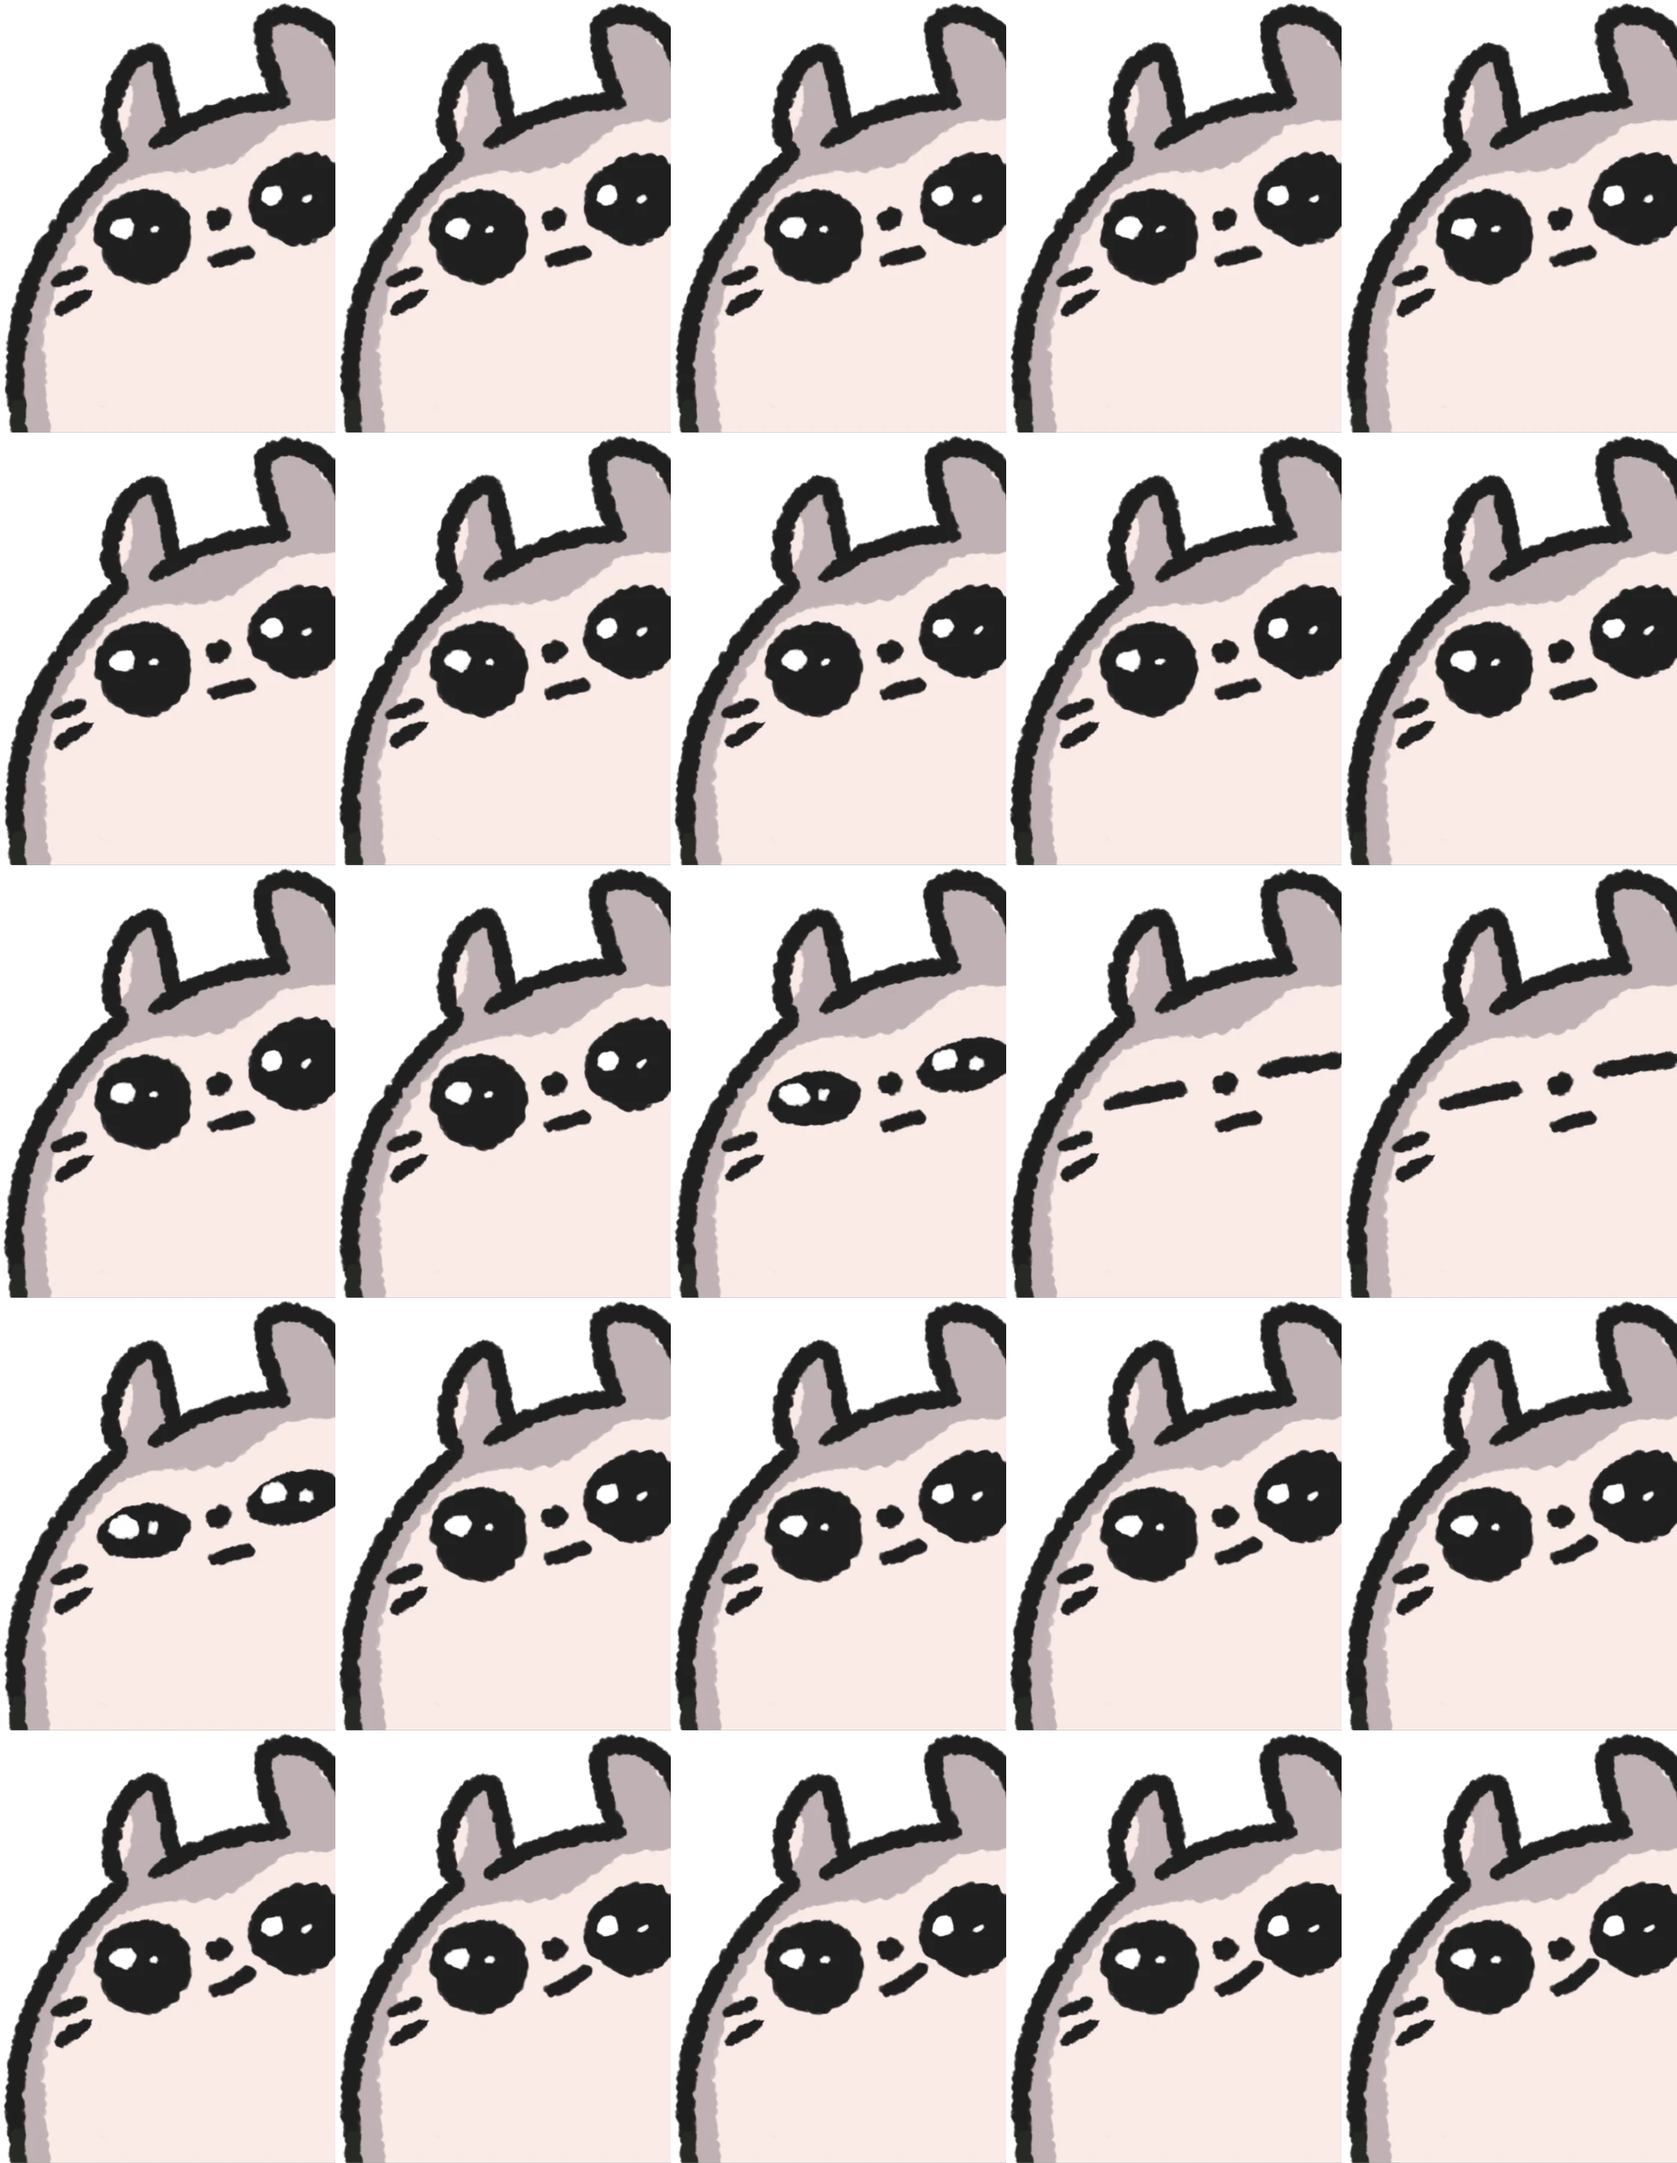
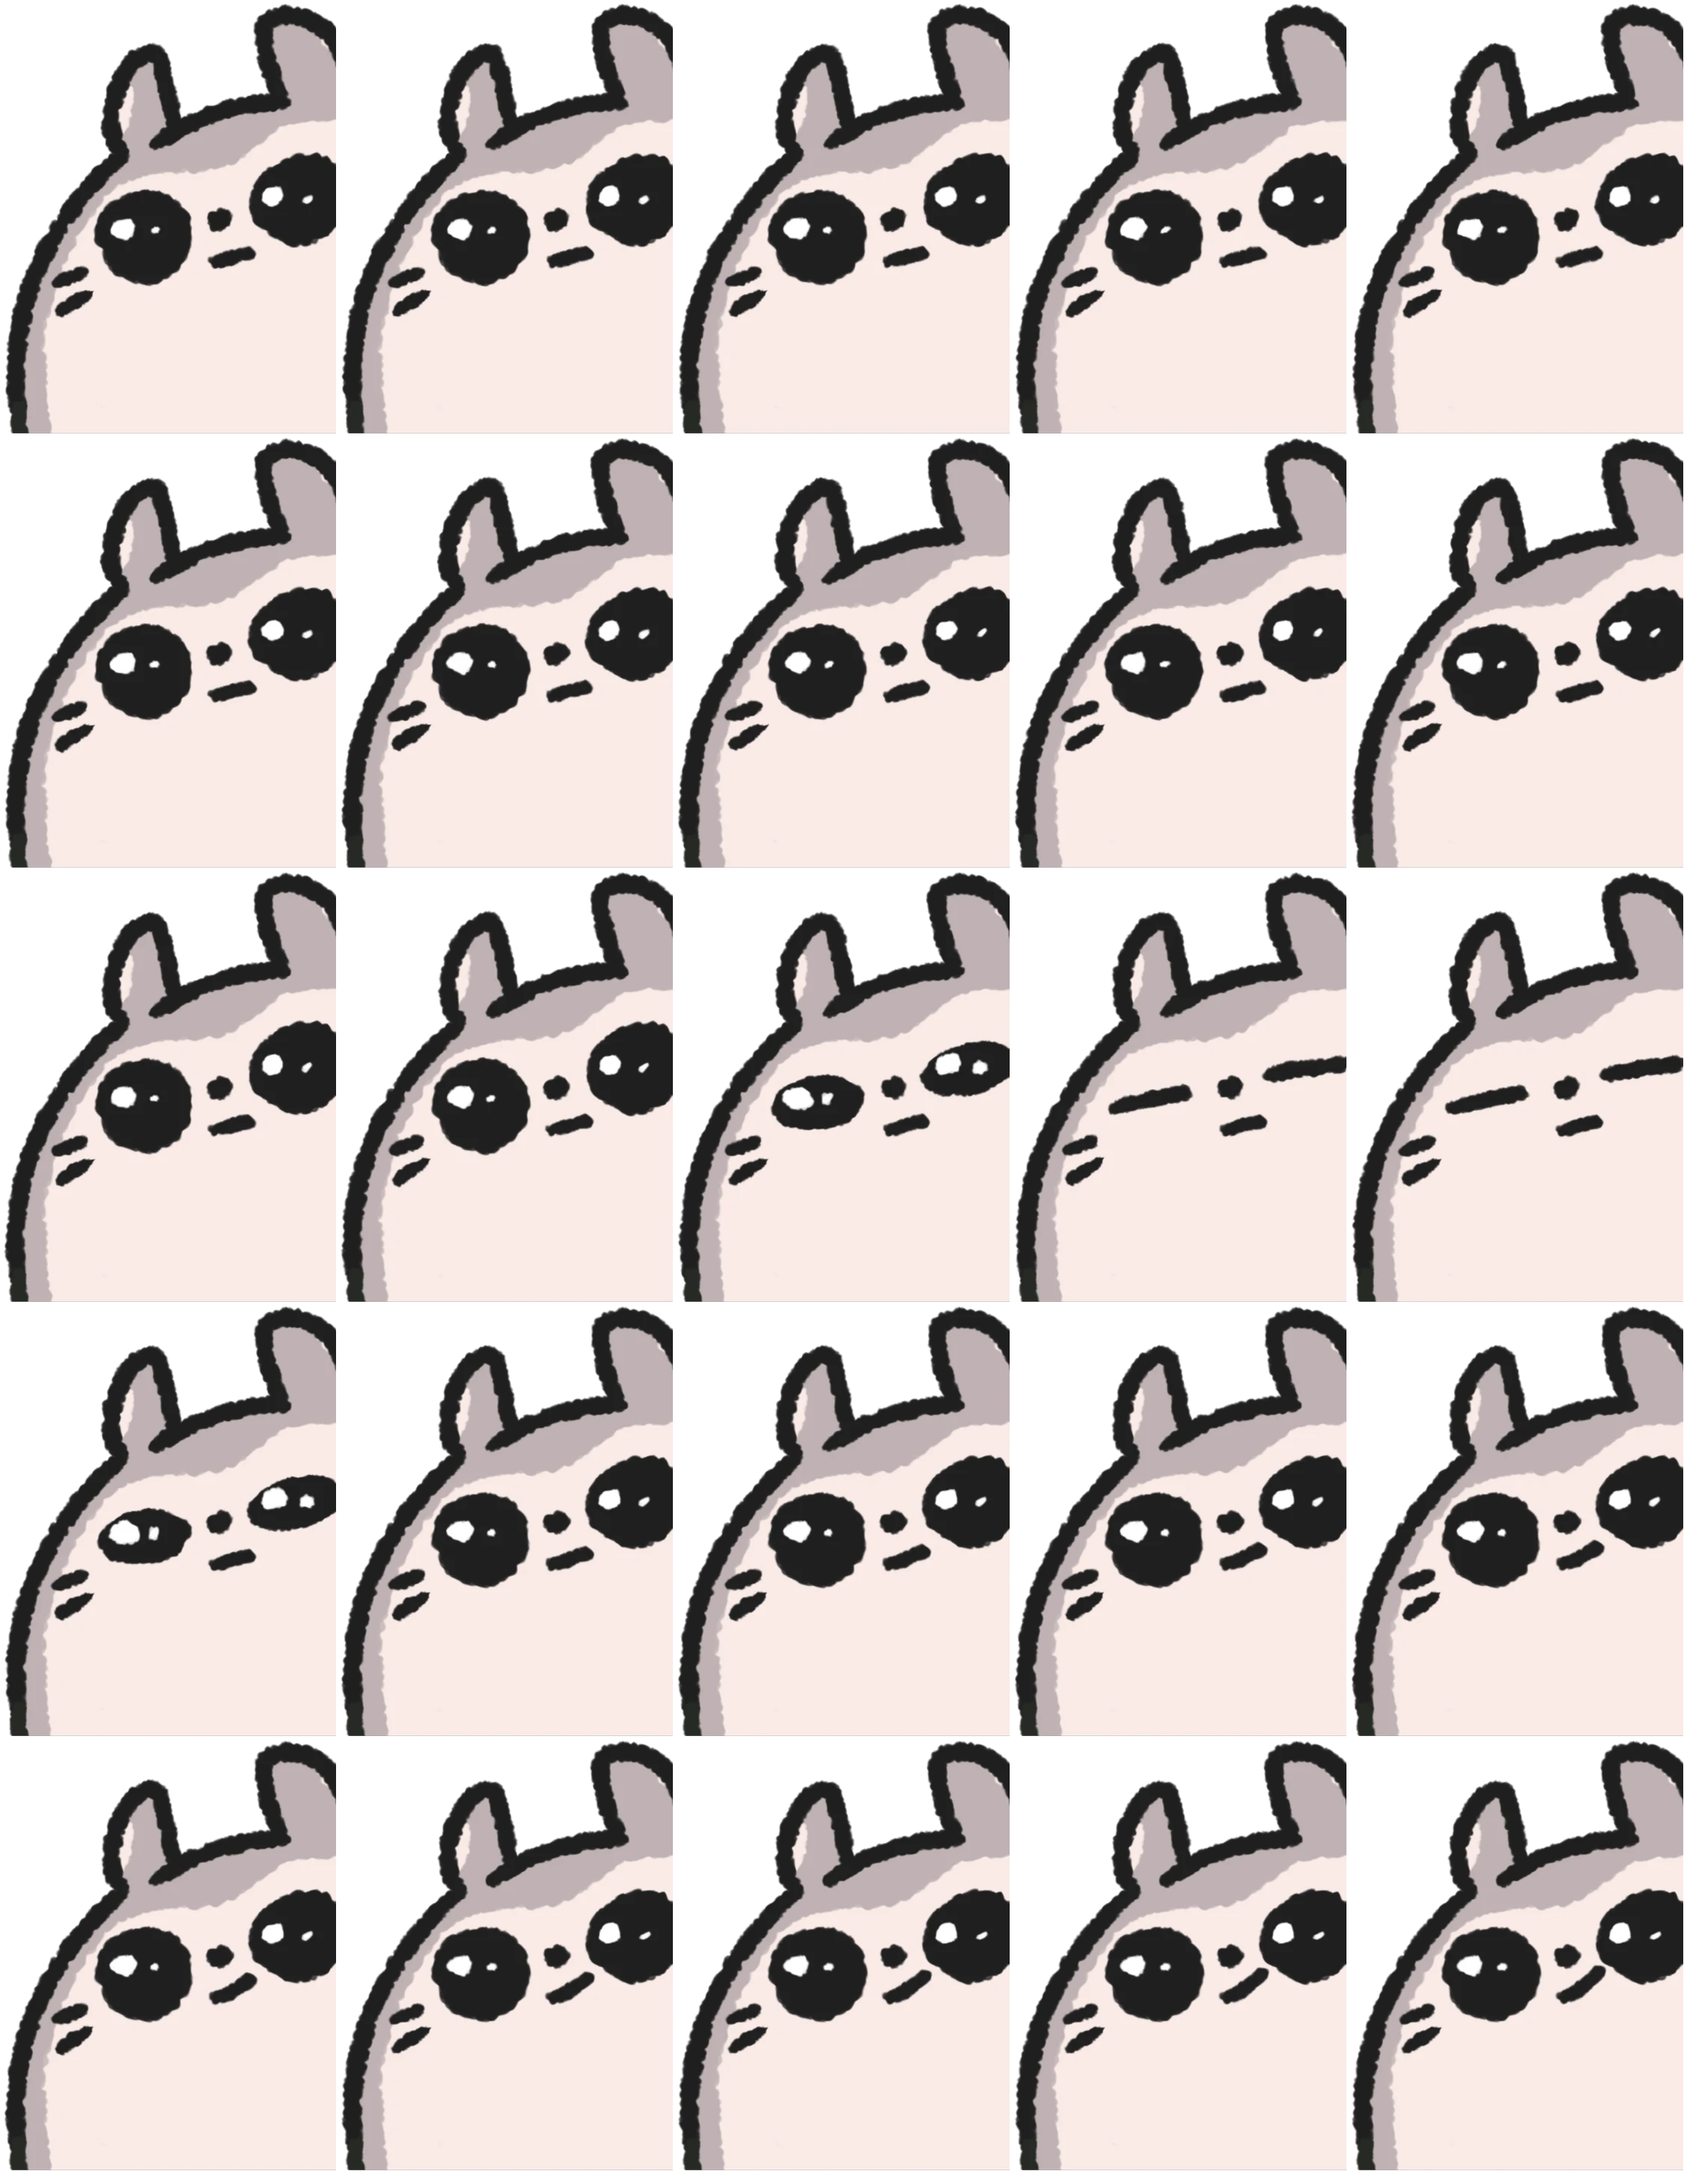
ぽちゃもんUFO：右下の子の検品を反映（1描画で進めるコマは1つまで＝途中のコマを飛ばさない・反対向きの途中は口の位置から折り返す・まばたき中は終わってから切替・時間飛び後のまばたき仕切り直し・配置を整数に丸め・コマ表に2pxの余白）

Changed region(s): [[0.0, 0.9965, 1.0, 1.0], [0.9688, 0.5917, 1.0, 0.6228]]

diff --git a/main/pochamon-ufo/game.js b/main/pochamon-ufo/game.js
@@ -423,40 +423,57 @@ const coinUI = {
 // 絵は AE の元ファイル（詳細コンポ・タービュレントディスプレイス付き）から表情ごとに書き出したコマ表（assets/face_sheet_*.webp・face.json）。
 // つかんで持ち上がったらニヤッ（口が上がる・開き目のまま）、途中で落ちたら真顔に戻る。画面の右下の角に、縁で切れる大きさで置く
 const faceUI = {
-  // コマ表（AE の「詳細」コンポをタービュレントディスプレイス付きで書き出したもの）を 30 コマ/秒のきざみで回す。
-  // ふだん＝open の 12 コマを秒 6 で回し、時々まばたき（半目→閉じ目→半目）を差し込む。ニヤッ＝grin_in（9コマ・秒30）→ grin の 12 コマを秒 6 で回す。
-  // 戻る＝grin_out（15コマ）→ ふだんへ。揺れの周期はループの途中位置を保って続けるので、表情が変わっても継ぎ目が出ない
+  // 絵は AE の元ファイル（詳細コンポ・タービュレントディスプレイス付き）から表情ごとに書き出したコマ表（assets/face_sheet_*.webp・face.json）。
+  // 30 コマ/秒のきざみで回す。ふだん＝open の 12 コマを秒 6 で回し、時々まばたき（半目→閉じ目→半目）。ニヤッ＝grin_in（9コマ）→ grin の 12 コマを秒 6。
+  // 戻る＝grin_out（15コマ）→ ふだんへ。揺れのループは途中位置を保つので、表情が変わっても継ぎ目が出ない
   img: {}, data: null, rect: null, mode: 'normal',
-  queue: [], cur: null, hold: 0, lastTick: 0, loopPos: 0, nextBlink: 0,
+  queue: [], clip: null, pending: null, cur: null, hold: 0, lastTick: 0, loopPos: 0, nextBlink: 0,
   layout() {
     if (!this.data || !con.R) return;
     const [fw, fh] = this.data.size;
     const b = con.data.R.btnY, c = conPt('R', b.c), bottom = c.y + b.r_bezel * con.R.k;   // 「たて」のボタンにはかぶせない
-    const h = Math.max(80, Math.min(view.ch * 0.34, view.ch - bottom - 8));
-    const w = h * fw / fh;
-    this.rect = { x: view.cw - w, y: view.ch - h, w, h };   // 右下の角に、縁で切れる絵をそのまま置く
+    const h = Math.round(Math.max(80, Math.min(view.ch * 0.34, view.ch - bottom - 8)));
+    const w = Math.round(h * fw / fh);
+    this.rect = { x: view.cw - w, y: view.ch - h, w, h };   // 右下の角に、縁で切れる絵をそのまま。整数に丸める（端数だと隣のコマの縁がにじむ）
   },
-  play(name) { const c = this.data && this.data.clips[name]; if (!c) return; this.queue = c.map((f) => ({ name: f[0], ticks: f[1] })); this.hold = 0; },
-  grin() { if (this.mode === 'grin') return; this.mode = 'grin'; this.loopPos = 0; this.play('grin_in'); },
-  normal() { if (this.mode === 'normal') return; this.mode = 'normal'; this.loopPos = 0; this.play('grin_out'); },
+  play(name, from) {
+    const c = this.data && this.data.clips[name]; if (!c) return;
+    this.clip = name; this.queue = c.slice(from || 0).map((f) => ({ name: f[0], ticks: f[1] })); this.hold = 0;
+  },
+  // 表情の切替。まばたきの途中なら終わってから。反対向きの途中（ニヤッになりかけで落ちた等）なら口の位置が合う所から折り返す
+  transition(name) {
+    const opp = name === 'grin_in' ? 'grin_out' : 'grin_in';
+    if (this.clip === 'blink' || this.clip === 'grin_blink') { this.pending = (this.pending === opp) ? null : name; return; }
+    this.pending = null;
+    if (this.clip === opp && this.queue.length) {
+      const total = this.data.clips[name].length, oppTotal = this.data.clips[opp].length, m = this.queue.length;
+      this.play(name, Math.min(total - 1, Math.floor(total * m / oppTotal)));
+      return;
+    }
+    this.play(name);
+  },
+  grin() { if (this.mode === 'grin') return; this.mode = 'grin'; this.loopPos = 0; this.transition('grin_in'); },
+  normal() { if (this.mode === 'normal') return; this.mode = 'normal'; this.loopPos = 0; this.transition('grin_out'); },
   refill(nowSec) {
+    if (this.pending) { const p = this.pending; this.pending = null; this.play(p); return; }
     const blink = this.mode === 'grin' ? 'grin_blink' : 'blink';
     if (nowSec > this.nextBlink) { this.nextBlink = nowSec + 2.5 + Math.random() * 3; this.play(blink); return; }
-    const loop = this.data.clips[this.mode === 'grin' ? 'grin' : 'idle'];
+    const loopName = this.mode === 'grin' ? 'grin' : 'idle', loop = this.data.clips[loopName];
     const f = loop[this.loopPos % loop.length]; this.loopPos++;
-    this.queue = [{ name: f[0], ticks: f[1] }];
+    this.clip = loopName; this.queue = [{ name: f[0], ticks: f[1] }];
   },
   step(now) {
     const dt = 1000 / (this.data.tick_fps || 30);
     if (!this.lastTick) { this.lastTick = now; this.nextBlink = now / 1000 + 1.5; }
     let n = Math.floor((now - this.lastTick) / dt);
     if (n <= 0) return;
-    if (n > 10) { this.lastTick = now; n = 1; }   // タブ切替などで時間が飛んだ時は追いつかせない
+    if (n > 10) { this.lastTick = now; n = 1; this.nextBlink = now / 1000 + 1; }   // 時間が飛んだ時（タブ切替など）は追いつかせず、まばたきも仕切り直す
     else this.lastTick += n * dt;
     while (n-- > 0) {
       if (this.hold > 0) { this.hold--; continue; }
       if (!this.queue.length) this.refill(now / 1000);
       const f = this.queue.shift(); this.cur = f.name; this.hold = f.ticks - 1;
+      if (n > 0) { this.lastTick -= n * dt; break; }   // 1描画で進めるコマは1つまで（1きざみのコマを飛ばさない）。残りは次の描画へ持ち越す
     }
   },
   draw() {

diff --git a/tools/pochamon-ufo/sync_face.py b/tools/pochamon-ufo/sync_face.py
@@ -54,11 +54,14 @@ index, files, total = {}, {}, 0
 for key, names in GROUPS.items():
     cols = 5 if len(names) <= 25 else 6
     rows = (len(names) + cols - 1) // cols
-    sheet = Image.new("RGBA", (cols * fw, rows * fh), (0, 0, 0, 0))
+    G = 2   # コマの間の余白（画面で拡大縮小した時に隣のコマの縁がにじまないように）
+    cw_, ch_ = fw + G, fh + G
+    sheet = Image.new("RGBA", (cols * cw_, rows * ch_), (0, 0, 0, 0))
     for i, n in enumerate(names):
         im = frames[n].crop(box).resize((fw, fh), Image.LANCZOS)
-        sheet.alpha_composite(im, ((i % cols) * fw, (i // cols) * fh))
-        index[n] = {"sheet": key, "x": (i % cols) * fw, "y": (i // cols) * fh}
+        x, y = (i % cols) * cw_ + G // 2, (i // cols) * ch_ + G // 2
+        sheet.alpha_composite(im, (x, y))
+        index[n] = {"sheet": key, "x": x, "y": y}
     out = f"face_sheet_{key}.webp"
     sheet.save(os.path.join(DEST, out), "WEBP", quality=90, method=6)
     files[key] = out
